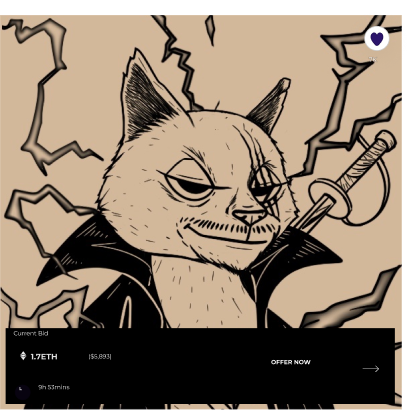
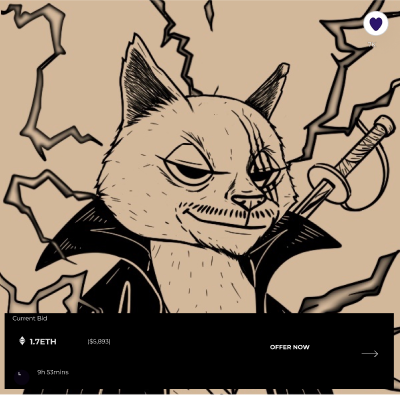
중간커밋

diff --git a/client/src/components/Concept.js b/client/src/components/Concept.js
@@ -31,14 +31,15 @@ const ConceptStyle = styled.div`
                     font-family: 'Anton', sans-serif;
                 }
                 .c1_body {
-                    font-size: 20px;
+                    font-size: 1.6vw;
                 }
             }
 
             .container1_intro_img {
                 .cat4_img {
                     /* background-color: darkblue; */
-                    padding: 18px 0px;
+                    padding: 18px;
+                    width: 100%;
                 }
             }
         }
@@ -49,13 +50,38 @@ const ConceptStyle = styled.div`
         display: flex;
         flex-direction: row-reverse;
         .concept_container2_intro {
-            background-color: turquoise;
+            /* background-color: turquoise; */
             width: 60%;
+            border-left: solid 1px white;
+            display: flex;
+            justify-content: center;
+            align-items: center;
+            padding: 2vw 4vw;
+        }
+
+        .c2_headline {
+            color: yellow;
+            font-family: 'Anton', sans-serif;
+            font-size: 72px;
+            margin-top: -12px;
+            padding-bottom: 20px;
+        }
+
+        .c2_body {
+            line-height: 24px;
+            font-size: 1.6vw;
         }
 
         .concept_container2_img {
-            background-color: tomato;
+            /* background-color: tomato; */
             width: 40%;
+            padding: 4vw 0px;
+            display: flex;
+            justify-content: center;
+            align-items: center;
+            .cat1_img {
+                width: 60%;
+            }
         }
     }
 
@@ -77,12 +103,13 @@ const ConceptStyle = styled.div`
                 height: 100%;
             }
         }
-        /* .c1_body {
-            font-size: 8px;
-        } */
 
         .concept_container2 {
             display: block;
+        }
+
+        .c1_text {
+            font-size: 3vw;
         }
     }
 `
@@ -99,14 +126,16 @@ function Concept () {
                         <div className="container1_intro_text">
                             <div className="c1_headline">WELCOME TO THE<br/> PIRATESDAO</div>
                             <div className="c1_body">
+                                <p className="c1_text">
                                 PiratesDAO는 클레이튼 체인 위에 살고 있는<br />
                                 10000개의 대체 불가능한 토큰입니다.<br />
                                 각각의 고양이들은 200여개의 독특한 파트들로 구성되어<br />
                                 세상에 오직 하나만 존재하는 특별한 수집품입니다.<br />
                                 <br />
                                 또한 www.piratesdao.org에서 프로필로 사용할 수 있으며<br />
-                                앞으로 추가될 소셜네트워크, 캘린더, 시즌 랭킹 시스템<br />
-                                디파이, 게임 등의 기능들을 사용할 수 있습니다.
+                                앞으로 추가될 소셜네트워크, 캘린더, 시즌 랭킹 시스템,<br />
+                                디파이, 게임 등의 기능들을 사용할 수 있습니다.<br />
+                                </p>
                             </div>
                         </div>
                         <div className="container1_intro_img">
@@ -116,7 +145,20 @@ function Concept () {
                 </div>
                 <div className="concept_container2">
                     <div className="concept_container2_intro">
-                        test
+                        <div className="c2_text">
+                            <div className="c2_headline">FAIR DISTRIBUTION</div>
+                            <div className="c2_body">
+                                모든 NFT의 가격은 동일한 35Klay이며<br /> 
+                                런칭 단계에서 동등한 가치를 갖고 있습니다.<br />
+                                Trait의 확률은 재미의 요소일뿐 <br />
+                                외형적 차이 이외에 <br />
+                                어떤 특별한 가치나 기능을<br /> 
+                                부가적으로 갖지 않습니다.<br />
+                                그러나 로드맵의 진행에 따라<br />
+                                놀이적 요소나 추가 될 수 있으며 발행 가격이 <br />
+                                상승할 수 있습니다.<br />
+                            </div>
+                        </div>
                     </div>
                     <div className="concept_container2_img">
                         <img className="cat1_img" alt="main" src={catsample1}></img>
